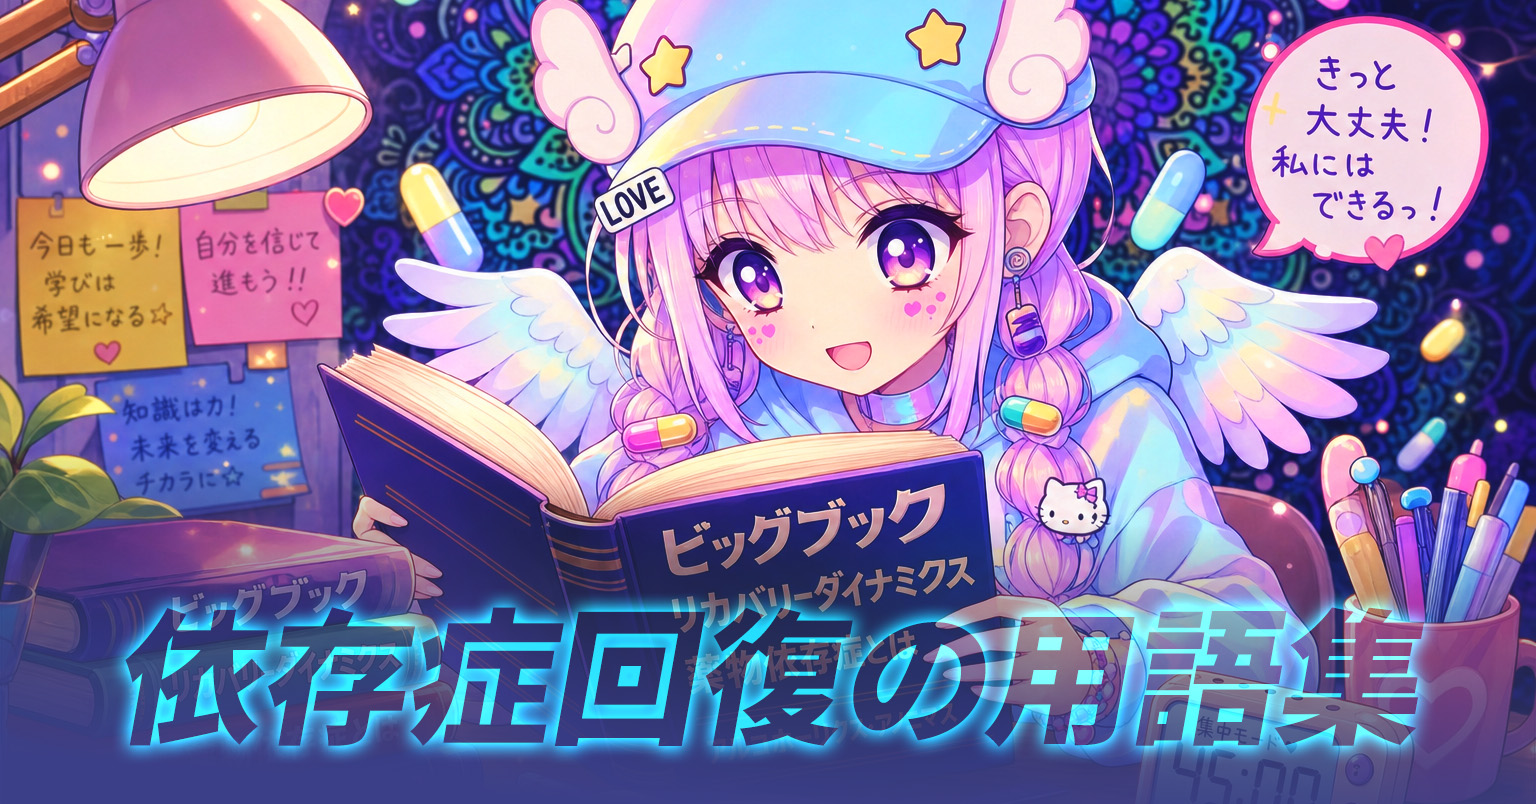
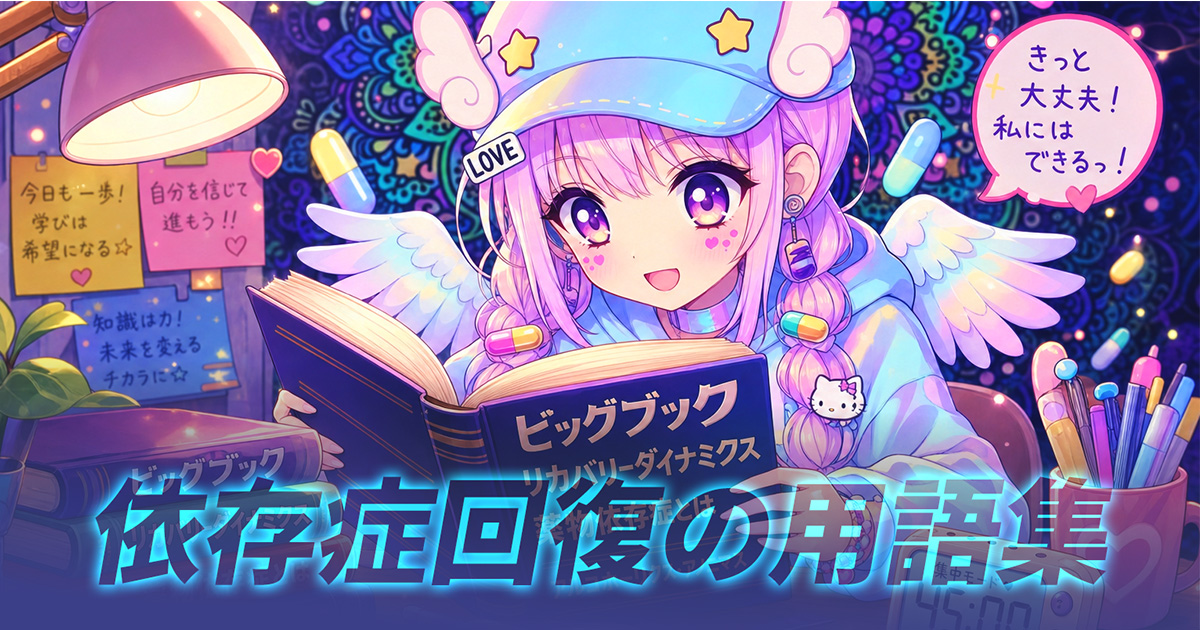
chore: toｐ画面大工事中

diff --git a/pages/index.vue b/pages/index.vue
@@ -33,18 +33,18 @@
       </div>
     </section>
 
-    <!-- BASICS-->
-    <section class="flex flex-row items-start justify-end gap-4 mx-auto max-w-6xl mt-12 px-6 pb-14">
-      <div>
+    <!-- Harm Reduction-->
+    <section class="flex flex-row items-start justify-end gap-4 max-w-6xl mx-auto mt-12 mb-12 px-6">
+      <div class="w-1/4 flex-none">
         <h2 class="mb-8 custom-font-bold text-4xl">Harm Reduction</h2>
-        <h3 class="mb-16 text-base text-slate-500">薬物使用に関するリスクともし薬物を使ってしまったときの危害軽減</h3>
+        <h3 class="mb-16 text-base text-slate-500">薬物使用に関するリスクと薬物使用したときの危害軽減法</h3>
         <div class="flex flex-row items-start justify-center">        
           <div class="h-10 flex items-baseline gap-2">
             <!-- 左ボタン -->
             <button
               type="button"
               class="hidden md:flex items-baseline z-30 h-10 w-10 bg-white/90 hover:bg-[#FF9B51] hover:text-white"
-              @click="scrollCarousel('left')"
+              @click="scrollCarousel('left', harmReductionCarouselRef)"
             >
               <img src="/ui/angle-small-left.png" class="h-10 w-10" alt="左にカルーセルを移動" />
             </button>
@@ -52,7 +52,7 @@
             <button
               type="button"
               class="hidden md:flex items-baseline z-30 h-10 w-10 bg-white/90 hover:bg-[#FF9B51] hover:text-white"
-              @click="scrollCarousel('right')"
+              @click="scrollCarousel('right', harmReductionCarouselRef)"
             >
               <img src="/ui/angle-small-right.png" class="h-10 w-10" alt="右にカルーセルを移動" />
             </button>
@@ -61,13 +61,10 @@
 
       </div>
 
-
-      <div
-        class="relative mx-auto"
-      >
+      <div class="flex-initial w-3/4 relative mx-auto">
         <!-- 表示領域 -->
         <div
-          ref="carouselRef"
+          ref="harmReductionCarouselRef"
           class="mx-4 md:mx-0 no-scrollbar overflow-x-auto scroll-smooth"
         >
           <div
@@ -98,48 +95,100 @@
           </div>
         </div>
       </div>
-
-
     </section>
 
-    <section class="mx-auto max-w-6xl">
-      <div class="w-full h-[500px] bg-[#2e4454] rounded-3xl">
-
+    <!-- Recovery-->
+    <section class="flex flex-row items-start justify-end gap-4 mx-auto max-w-6xl px-6 pb-14">
+      <div class="w-1/4 flex-none">
+        <h2 class="mb-8 custom-font-bold text-4xl">Recovery</h2>
+        <h3 class="mb-16 text-base text-slate-500">薬物依存症からの回復・成長</h3>
+        <div class="flex flex-row items-start justify-center">        
+          <div class="h-10 flex items-baseline gap-2">
+            <!-- 左ボタン -->
+            <button
+              type="button"
+              class="hidden md:flex items-baseline z-30 h-10 w-10 bg-white/90 hover:bg-[#FF9B51] hover:text-white"
+              @click="scrollCarousel('left', recoveryCarouselRef)"
+            >
+              <img src="/ui/angle-small-left.png" class="h-10 w-10" alt="左にカルーセルを移動" />
+            </button>
+            <!-- 右ボタン -->
+            <button
+              type="button"
+              class="hidden md:flex items-baseline z-30 h-10 w-10 bg-white/90 hover:bg-[#FF9B51] hover:text-white"
+              @click="scrollCarousel('right', recoveryCarouselRef)"
+            >
+              <img src="/ui/angle-small-right.png" class="h-10 w-10" alt="右にカルーセルを移動" />
+            </button>
+          </div>
+        </div>
       </div>
+      <div class="flex-initial w-3/4 relative mx-auto">
+        <!-- 表示領域 -->
+        <div
+          ref="recoveryCarouselRef"
+          class="mx-4 md:mx-0 no-scrollbar overflow-x-auto scroll-smooth"
+        >
+          <div
+            class="flex flex-row gap-4"
+          >
+            <NuxtLink
+              v-for="recoveryContent in recoveryFeeds"
+              :key="recoveryContent.path"
+              :to="recoveryContent.path"
+              class="group block mb-8 shrink-0 basis-[calc(100%-3rem)] md:basis-[calc((100%-2rem)/3)] no-underline"
+            >
 
-    </section>
-
-    <!-- Trending + Updated -->
-    <section class="mx-auto max-w-6xl px-6 pb-14">
-      <div class="grid gap-6 md:grid-cols-12">
-        <div class="md:col-span-7">
-            <h2 class="flex items-end justify-between mb-8 mt-2 pl-2 pb-2 border-b-2 border-[#25343F] custom-font-bold text-4xl "><span>TRENDING</span><a class="text-sm text-slate-300 hover:text-white" href="/substances">View all</a></h2>
-
-          <div class="mt-4 grid gap-3 sm:grid-cols-2">
-            <!-- Card item -->
-            <a href="/substances/mdpv" class="rounded-2xl border border-white/10 bg-white/5 p-4 hover:bg-white/10">
-              <div class="flex items-center justify-between gap-3">
-                <p class="text-sm font-medium">MDPV</p>
-                <span class="rounded-full border border-white/10 bg-white/5 px-2 py-1 text-[11px] text-slate-300">stimulant</span>
+              <div class="overflow-hidden border border-[#BFC9D1]/70 rounded-md">
+                <div class="overflow-hidden">
+                  <img
+                    :src="recoveryContent.ogImage"  
+                    :alt="recoveryContent.title"
+                    class="transition-transform duration-300 ease-out group-hover:scale-125"
+                  />
+                </div>
+                <div class="p-4">
+                  <h2 class="custom-font-bold mb-2">{{ recoveryContent.title }}</h2>
+                  <p class="text-slate-500 text-s5">{{ recoveryContent.description }}</p>
+                </div>
               </div>
-              <p class="mt-2 text-xs text-slate-400">High risk: compulsive redosing, agitation, paranoia.</p>
-            </a>
-          </div>
-          
-        </div>
-
-        <div class="md:col-span-5">
-          <h2 class="mb-8 mt-2 pl-2 pb-2 border-b-2 border-[#25343F] custom-font-bold text-4xl">Note記事</h2>
-
-          <div class="mt-4 divide-y divide-white/10 rounded-3xl border border-white/10 bg-white/5">
-
-            <ContentNoteFeed />
-
+              
+            </NuxtLink>
           </div>
         </div>
       </div>
     </section>
 
+    <!-- Truth Lightの基本理念 -->
+    <section class="page-sections mx-auto max-w-6xl">
+      <div class="w-[1152px] h-[500px] px-16 py-16 bg-[#2e4454] rounded-3xl">
+        <h2 class="text-4xl text-slate-100 custom-font-black text-center">Truth Lightの基本理念</h2>
+        <h3 class="text-2xl text-slate-100 custom-font-black text-center">Mission</h3>
+        <p>ダメ。ゼッタイ。を超えて薬物を乱用する人は必ずいることを認め
+        その人たちと共存して生きていく世の中で変えていきます。
+        違法流通や入手方法には関与せず、薬物の基本的情報や文化・歴史などのアーカイブ
+        またハームリダクションと薬物教育のための公共的コミュニティを設立する。</p>
+
+        <h3 class="text-2xl text-slate-100 custom-font-black text-center">Vision</h3>
+        <p>・誰もアクセス可能な日本での精神活性物質のデータベースを運用していく。
+        ・回復したアディクトのパーソナルストーリーなどで希望のバトンを渡していく
+        ・キリスト教系教会、ダルク、ナルコティクス・アノニマスなど外部団体とも横の繋がりを構築していく。</p>
+
+        <h3 class="text-2xl text-slate-100 custom-font-black text-center">Value</h3>
+        <p><strong class="text-red-500">「愛」</strong>を中心に起き、人々に大きなメッセージをつなげ続けていく。</p>
+        <p>
+          Truth Lightでは依存症という疾患に対して様々な分野からメスを入れます。それが以下の5つのValuesです。
+          
+          
+          神学的<br />
+          社会学的<br />
+          脳科学的<br />
+          心理学的<br />
+          薬理学的
+        </p>
+      </div>
+
+    </section>
 </template>
 
 <style lang="css" scoped>
@@ -174,19 +223,30 @@ const { data: basicsFeeds } = await useAsyncData('basics-feeds', async () => {
     .order('updatedAt', 'DESC')
     .all()
 
-  console.log('Contentsの中身！：', contents)
-
   return contents.filter((content) =>
     content.path.startsWith('/readings/basics')
   )
 })
 
-const carouselRef = ref<HTMLElement | null>(null)
+const { data: recoveryFeeds } = await useAsyncData('recovery-feeds', async() => {
+  const contents = await queryCollection('readings')
+    .order('updatedAt', 'DESC')
+    .all()
 
-const scrollCarousel = (direction: 'left' | 'right') => {
-  if (!carouselRef.value) return
+  return contents.filter((content) =>
+    content.path.startsWith('/readings/recovery')
+  )
+})
 
-  carouselRef.value.scrollBy({
+const harmReductionCarouselRef = ref<HTMLElement | null>(null)
+const recoveryCarouselRef = ref<HTMLElement | null>(null)
+
+const scrollCarousel = (direction: 'left' | 'right', eleRef: HTMLElement | null) => {
+  console.log('eleRef.valueの内容' + eleRef)
+
+  if (!eleRef) return
+
+  eleRef.scrollBy({
     left: direction === 'right' ? 360 : -360,
     behavior: 'smooth',
   })

diff --git a/assets/css/tailwind.css b/assets/css/tailwind.css
@@ -27,6 +27,16 @@
     font-style: normal;
   }
 
+  .custom-font-black {
+    font-family: "Noto Sans JP", sans-serif;
+    font-optical-sizing: auto;
+    font-weight: 900;
+    font-style: normal;
+  }
+  .page-sections p {
+    @apply text-slate-100;
+  }
+
   #__nuxtContent article {
     @apply text-wrap;
   }

diff --git a/nuxt.config.ts b/nuxt.config.ts
@@ -42,7 +42,7 @@ export default defineNuxtConfig({
       {
         name: 'Noto Sans JP',
         provider: 'google',
-        weights: [400, 700],
+        weights: [400, 700, 900],
         styles: ['normal'],
       },
     ],

diff --git a/content/readings/recovery/dict.md b/content/readings/recovery/dict.md
@@ -3,7 +3,7 @@ title: '12ステッププログラムの回復用語集'
 description: '薬物依存症は治療できる病です。一度使ってしまったら人生終了ではありません。依存症は孤独の病・人間関係の病とも言われ、苦しみを理解し助け合う仲間が回復には必要です。'
 createdAt: '2026-06-14'
 updatedAt: '2026-06-16'
-ogImage: '/ogp/recovery/ogp-dict_1200x630.jpg'
+ogImage: '/ogp/recovery/ogp-dict.jpg'
 seo:
   meta:
     - name: 'keywords'

diff --git a/content/readings/recovery/get-help.md b/content/readings/recovery/get-help.md
@@ -3,7 +3,7 @@ title: '依存症相談・支援先一覧'
 description: '「薬物がやめられない…」そんな悩みを一人で抱えてる依存症の方に、依存症相談窓口・施設・自助グループを一挙紹介。必ずあなたの回復できる場所が見つかるはずです。'
 createdAt: '2026-06-14'
 updatedAt: '2026-06-16'
-ogImage: '/ogp/recovery/og-get-help_1200x630.jpg'
+ogImage: '/ogp/recovery/og-get-help.jpg'
 seo:
   meta:
     - name: 'keywords'

diff --git a/content/readings/recovery/12step-part-1.md b/content/readings/recovery/12step-part-1.md
@@ -3,6 +3,7 @@ title: '依存症回復プログラム「12ステップ」基礎編'
 description: '「薬物がやめられない…」そんな悩みを一人で抱えてる依存症の方に、依存症回復プログラムである「12ステップ」を紹介。必ずあなたにも回復できます。'
 createdAt: '2026-06-22'
 updatedAt: '2026-06-22'
+ogImage: '/ogp/recovery/og-get-help.jpg'
 seo:
   meta:
     - name: 'keywords'
